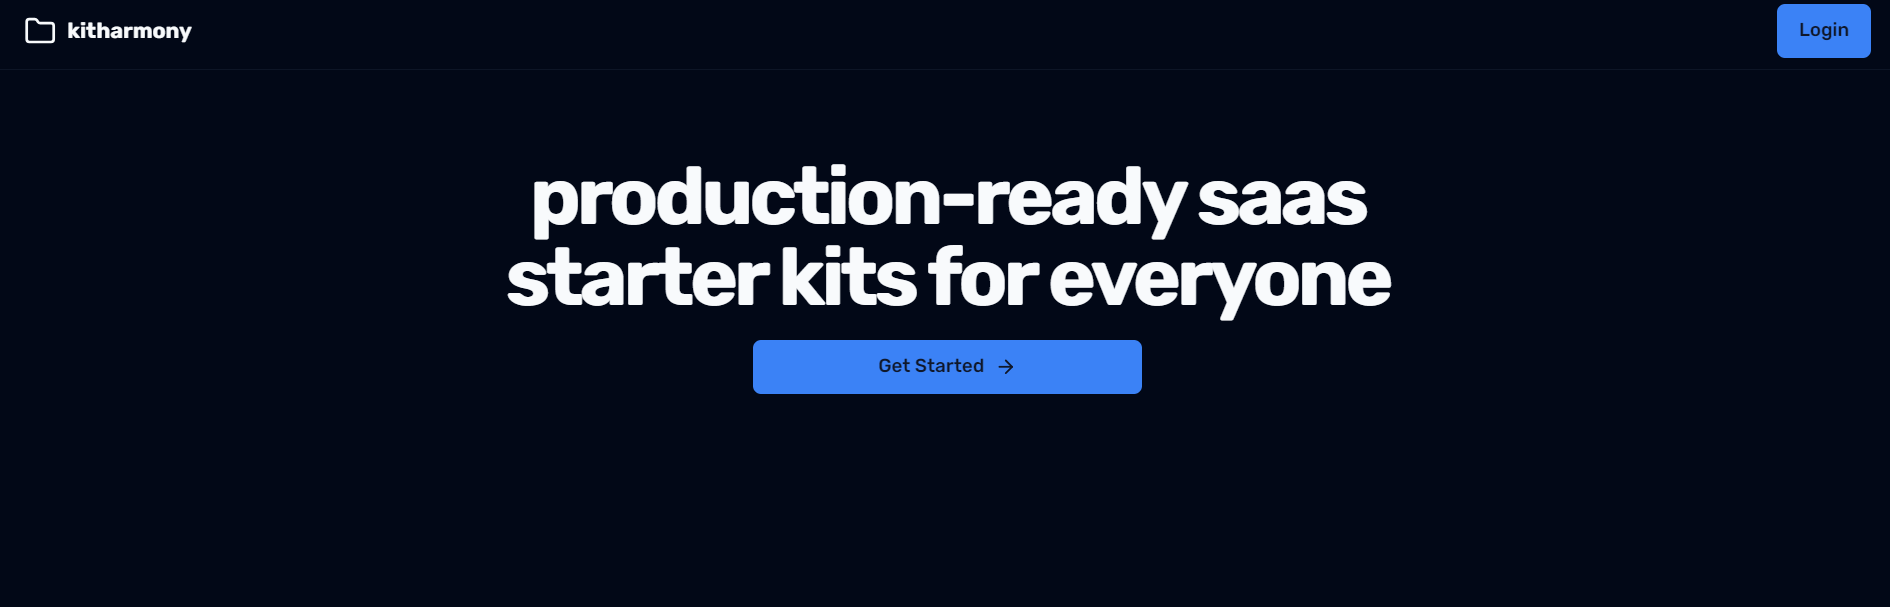
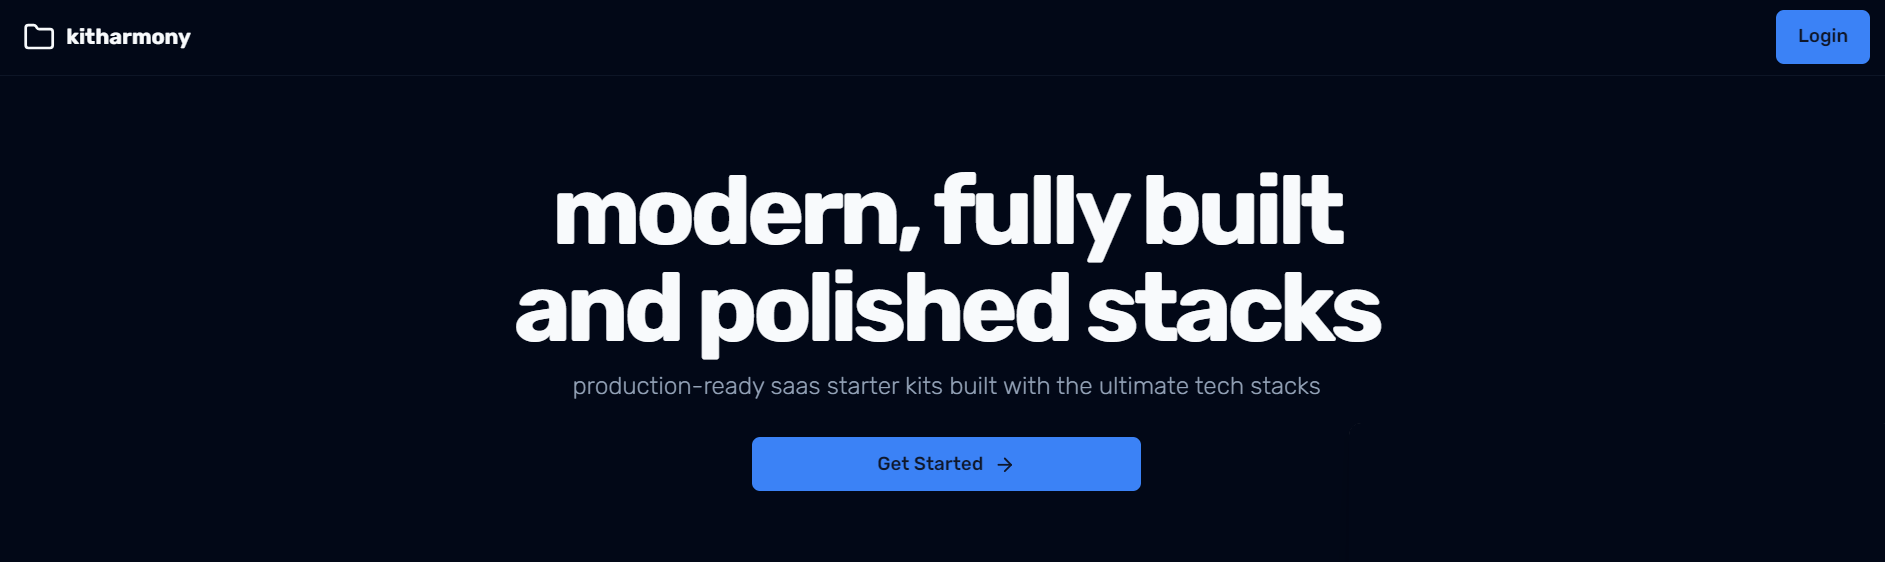
organizing process

diff --git a/src/app/(protected)/purchases/purchase-item.tsx b/src/app/(protected)/purchases/purchase-item.tsx
@@ -1,7 +1,15 @@
-import { buttonVariants } from "@/components/ui/button";
-import { cn } from "@/lib/utils";
-import { ArrowRightIcon } from "lucide-react";
 import Link from "next/link";
+
+import { Button } from "@/components/ui/button";
+import {
+  Card,
+  CardContent,
+  CardDescription,
+  CardFooter,
+  CardHeader,
+  CardTitle,
+} from "@/components/ui/card";
+import { BookIcon, GithubIcon } from "lucide-react";
 
 interface PurchaseItemProps {
   id: string;
@@ -17,31 +25,33 @@ export function PurchaseItem({
   createdAt,
 }: PurchaseItemProps) {
   return (
-    <article className="flex flex-col gap-3 border-b border-border py-3">
-      <Link
-        href={link}
-        target="_blank"
-        rel="noreferrer"
-        className="text-xl font-medium underline underline-offset-4"
-      >
-        {kitName}
-      </Link>
-      <p className="text-sm text-muted-foreground">Purchase ID: {id}</p>
-      <div className="flex items-center justify-between">
-        <span className="sr-only">Published On</span>
-        <p className="items-center gap-1 text-xs font-medium">
-          {createdAt.toLocaleDateString()}
-        </p>
+    <Card className="min-w-fit border md:p-8">
+      <CardHeader>
+        <CardTitle>
+          <Link
+            href={kitName}
+            className="text-primary underline underline-offset-4"
+          >
+            {kitName.toUpperCase()}
+          </Link>
+        </CardTitle>
+        <CardDescription>{createdAt.toLocaleDateString()}</CardDescription>
+      </CardHeader>
+      <CardContent>Purchase ID: {id}</CardContent>
+      <CardFooter className="justify-between">
+        <Button size="icon" variant="secondary" asChild>
+          <Link href={link} target="_blank" rel="noreferrer">
+            <span className="sr-only">github</span>
+            <GithubIcon className="h-4 w-4" />
+          </Link>
+        </Button>
         <Link
+          className="flex items-center hover:underline"
           href={`/docs/${kitName}`}
-          className={cn(
-            buttonVariants({ variant: "link" }),
-            "py-0 text-xs font-medium",
-          )}
         >
-          To docs <ArrowRightIcon className="ml-2 h-4 w-4" />
+          <BookIcon className="mr-2 h-4 w-4" /> Documentation
         </Link>
-      </div>
-    </article>
+      </CardFooter>
+    </Card>
   );
 }

diff --git a/src/app/(kits)/scalekit/sections.tsx b/src/app/(kits)/scalekit/sections.tsx
@@ -64,10 +64,10 @@ export async function MainSection() {
         <PurchaseButton kitName="scalekit" />
       </Suspense>
       <ThemeImage
-        src="/scalekit/hero-light.png"
-        dark="/scalekit/hero-dark.png"
+        src="/scalekit/landing/hero-light.png"
+        dark="/scalekit/landing/hero-dark.png"
         alt="Hero image"
-        className="max-w-6xl px-6 pt-8 dark:hidden sm:max-w-4xl md:max-w-screen-xl lg:px-8"
+        className="max-w-6xl px-6 pt-8 sm:max-w-4xl md:max-w-screen-xl lg:px-8"
       />
     </Section>
   );
@@ -89,8 +89,8 @@ export function FeaturesSection() {
             className="mt-4 w-full px-4 md:max-w-sm"
           />
           <ThemeImage
-            src="/scalekit/authentication-light.png"
-            dark="/scalekit/authentication-dark.png"
+            src="/scalekit/landing/authentication-light.png"
+            dark="/scalekit/landing/authentication-dark.png"
             alt="First feature"
             className="px-6 sm:max-w-4xl md:mr-14 md:min-w-[500px] md:max-w-screen-xl lg:px-8"
           />
@@ -102,8 +102,8 @@ export function FeaturesSection() {
             className="mt-4 w-full px-4 md:max-w-sm"
           />
           <ThemeImage
-            src="/scalekit/emails-light.png"
-            dark="/scalekit/emails-dark.png"
+            src="/scalekit/landing/emails-light.png"
+            dark="/scalekit/landing/emails-dark.png"
             alt="Second feature"
             className="px-6 sm:max-w-4xl md:mr-14 md:min-w-[500px] md:max-w-screen-xl lg:px-8"
           />
@@ -115,8 +115,8 @@ export function FeaturesSection() {
             className="mt-4 w-full px-4 md:max-w-sm"
           />
           <ThemeImage
-            src="/scalekit/documentation-light.png"
-            dark="/scalekit/documentation-dark.png"
+            src="/scalekit/landing/documentation-light.png"
+            dark="/scalekit/landing/documentation-dark.png"
             alt="Third feature"
             className="px-6 sm:max-w-4xl md:mr-14 md:min-w-[500px] md:max-w-screen-xl lg:px-8"
           />

diff --git a/src/components/site-header.tsx b/src/components/site-header.tsx
@@ -1,13 +1,12 @@
 import Link from "next/link";
 
+import { siteConfig } from "@/config/site";
+import { validateRequest } from "@/lib/auth";
+
 import { Button } from "@/components/ui/button";
 import { UserDropdown } from "@/components/user-dropdown";
-import { MobileNav } from "@/components/mobile-nav";
-
-import { siteConfig } from "@/config/site";
 
 import { FolderIcon } from "lucide-react";
-import { validateRequest } from "@/lib/auth";
 
 export async function SiteHeader({ links }: { links?: React.ReactNode }) {
   const { user } = await validateRequest();
@@ -15,14 +14,11 @@ export async function SiteHeader({ links }: { links?: React.ReactNode }) {
   return (
     <header className="sticky top-0 z-50 w-full border-b border-border/40 backdrop-blur supports-[backdrop-filter]:bg-background/60">
       <div className="container flex h-14 items-center justify-between gap-2">
-        <div className="mr-4 hidden gap-8 md:flex">
-          <Link href="/" className="mr-6 flex items-center space-x-2">
-            <FolderIcon className="h-6 w-6" />
-            <span className="font-bold">{siteConfig.name}</span>
-          </Link>
-          {links}
-        </div>
-        <MobileNav />
+        <Link href="/" className="mr-6 flex items-center space-x-2">
+          <FolderIcon className="h-6 w-6" />
+          <span className="font-bold">{siteConfig.name}</span>
+        </Link>
+        {links}
         {user ? (
           <UserDropdown />
         ) : (

diff --git a/src/app/(protected)/purchases/purchases-list.tsx b/src/app/(protected)/purchases/purchases-list.tsx
@@ -1,23 +1,25 @@
-import db from "@/db";
-
-import { redirect } from "next/navigation";
+import { getUserPurchasesUseCase } from "@/infrastructure/purchases";
 
 import { validateRequest } from "@/lib/auth";
 
 import { PurchaseItem } from "./purchase-item";
+import { Card, CardContent } from "@/components/ui/card";
 
 export async function PurchasesList() {
   const { user } = await validateRequest();
 
-  if (!user) redirect("/");
+  if (!user) return;
 
-  const purchases = await db.purchase.findMany({
-    where: { userId: user.id },
-    include: { kit: true },
-  });
+  const purchases = await getUserPurchasesUseCase({ userId: user.id });
 
   return (
-    <>
+    <div className="flex w-full flex-col gap-6 py-8 md:grid md:grid-cols-3 md:py-16">
+      {purchases.length === 0 && (
+        <Card>
+          <CardContent>No results...</CardContent>
+        </Card>
+      )}
+
       {purchases.map((purchase) => (
         <PurchaseItem
           key={purchase.id}
@@ -27,6 +29,6 @@ export async function PurchasesList() {
           createdAt={purchase.createdAt}
         />
       ))}
-    </>
+    </div>
   );
 }

diff --git a/src/app/(home)/sections.tsx b/src/app/(home)/sections.tsx
@@ -12,6 +12,7 @@ import { ArrowRightIcon, CreditCardIcon } from "lucide-react";
 import {
   PageActions,
   PageHeader,
+  PageHeaderDescription,
   PageHeaderHeading,
 } from "@/components/page-header";
 import { Section } from "@/components/section";
@@ -24,9 +25,10 @@ export async function MainSection() {
   return (
     <Section>
       <PageHeader>
-        <PageHeaderHeading className="text-balance text-4xl font-bold md:text-5xl lg:text-6xl">
-          {siteConfig.description}
+        <PageHeaderHeading className="w-[980px] text-balance text-4xl font-bold md:text-6xl lg:text-7xl">
+          modern, fully built and polished stacks
         </PageHeaderHeading>
+        <PageHeaderDescription>{siteConfig.description}</PageHeaderDescription>
         <PageActions>
           {user ? (
             <Button className="w-72" asChild>

diff --git a/src/app/(kits)/_components/actions.ts b/src/app/(kits)/_components/actions.ts
@@ -4,7 +4,7 @@ import {
   createPurchaseUseCase,
   getPurchaseUseCase,
 } from "@/infrastructure/purchases";
-import { getKitUseCase } from "@/infrastructure/kits";
+import { getKitByNameUseCase } from "@/infrastructure/kits";
 
 import { redirect } from "next/navigation";
 
@@ -15,8 +15,8 @@ import { purchaseSchema } from "./validation";
 
 export const purchaseAction = authenticatedAction(
   purchaseSchema,
-  async ({ kitId }, { user }) => {
-    const kit = await getKitUseCase({ id: kitId });
+  async ({ kitName }, { user }) => {
+    const kit = await getKitByNameUseCase({ name: kitName });
 
     if (!kit) throw new ActionError("Kit not found!");
 

diff --git a/src/app/(protected)/purchases/page.tsx b/src/app/(protected)/purchases/page.tsx
@@ -3,7 +3,6 @@ import { redirect } from "next/navigation";
 
 import { validateRequest } from "@/lib/auth";
 
-import { Skeleton } from "@/components/ui/skeleton";
 import { PurchasesList } from "./purchases-list";
 import { Section } from "@/components/section";
 import { PageHeader, PageHeaderHeading } from "@/components/page-header";
@@ -18,7 +17,7 @@ export default async function PurchasesPage() {
       <PageHeader>
         <PageHeaderHeading>Purchases</PageHeaderHeading>
       </PageHeader>
-      <Suspense fallback={<Skeleton className="h-[150px]" />}>
+      <Suspense>
         <PurchasesList />
       </Suspense>
     </Section>

diff --git a/src/app/(kits)/_components/purchase-form.tsx b/src/app/(kits)/_components/purchase-form.tsx
@@ -9,7 +9,7 @@ import { useToast } from "@/components/ui/use-toast";
 import { LoaderButton } from "@/components/ui/loader-button";
 import { CreditCardIcon } from "lucide-react";
 
-export function PurchaseForm({ kitId }: { kitId: string }) {
+export function PurchaseForm({ kitName }: { kitName: string }) {
   const { toast } = useToast();
 
   const { execute, status } = useAction(purchaseAction, {
@@ -20,7 +20,7 @@ export function PurchaseForm({ kitId }: { kitId: string }) {
 
   const onSubmit = (e: React.FormEvent<HTMLFormElement>) => {
     e.preventDefault();
-    execute({ kitId });
+    execute({ kitName });
   };
 
   return (

diff --git a/src/infrastructure/purchases/use-cases/get.use-case.ts b/src/infrastructure/purchases/use-cases/get.use-case.ts
@@ -1,4 +1,4 @@
-import { getPurchase } from "../data-access";
+import { getPurchase, getUserPurchases } from "../data-access";
 
 import { ActionError } from "@/lib/safe-action";
 import { isValidObjectId } from "@/lib/utils";
@@ -13,4 +13,12 @@ export async function getPurchaseUseCase(data: {
   const purchase = await getPurchase(data);
 
   return purchase;
+}
+
+export async function getUserPurchasesUseCase(data: { userId: string }) {
+  if (!isValidObjectId(data.userId)) throw new ActionError("Invalid user id!");
+
+  const purchases = await getUserPurchases(data);
+
+  return purchases;
 }

diff --git a/src/components/site-footer.tsx b/src/components/site-footer.tsx
@@ -12,9 +12,9 @@ export function SiteFooter() {
       <div className="container mx-auto px-4 lg:px-20">
         <section className="flex flex-col items-center space-y-2">
           <Link href="/" className="text-2xl font-medium">
-            {siteConfig.name}
+            {siteConfig.name.toUpperCase()}
           </Link>
-          <p className="max-w-xs text-sm text-muted-foreground">
+          <p className="max-w-xs text-center text-sm text-muted-foreground">
             {siteConfig.description}
           </p>
           <div className="flex gap-2">

diff --git a/src/config/site.ts b/src/config/site.ts
@@ -2,7 +2,8 @@ export const siteConfig = {
   name: "kitharmony",
   url: "https://kitharmony.vercel.app",
   author: "tableharmony",
-  description: "production-ready saas starter kits for everyone",
+  description:
+    "production-ready saas starter kits built with the ultimate tech stacks",
   links: {
     github: "https://github.com/table-harmony/kitharmony",
     linkedin:

diff --git a/src/infrastructure/users/data-access/update.persistence.ts b/src/infrastructure/users/data-access/update.persistence.ts
@@ -6,6 +6,8 @@ import { toDtoMapper } from "./get.persistence";
 import { UpdateUserDto } from "../types";
 
 export async function updateUser(data: UpdateUserDto) {
-  const user = await db.user.update({ where: { id: data.id }, data });
+  const { id, ...update } = data;
+
+  const user = await db.user.update({ where: { id }, data: update });
   return toDtoMapper(user);
 }
